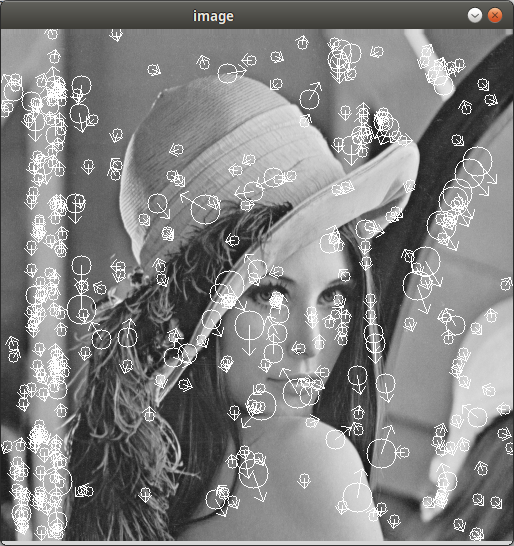
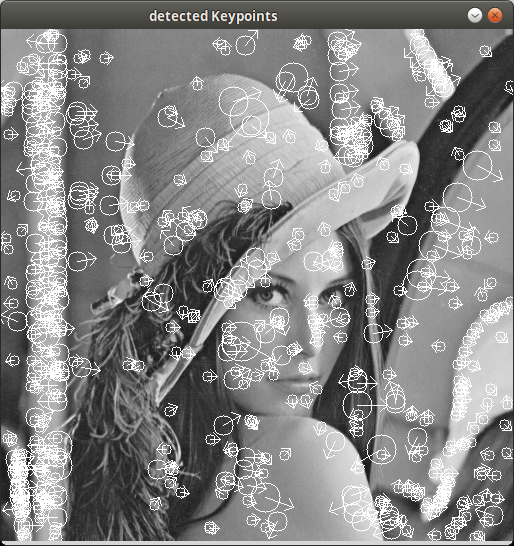
foobar

diff --git a/ub7/aufg1.py b/ub7/aufg1.py
@@ -28,7 +28,7 @@ def getGaussians(img,currentOctave , scales = 4):
         k = pow(math.sqrt(2),i + currentOctave)
         #k = (i+1) * math.sqrt(2)
         blur = img.copy()
-        cv2.GaussianBlur(src=img,dst = blur,ksize=kernelSize,sigmaX=sigma*k,sigmaY=sigma,borderType = cv2.BORDER_DEFAULT )
+        cv2.GaussianBlur(src=img,dst = blur,ksize=kernelSize,sigmaX=sigma*k,sigmaY=sigma*k,borderType = cv2.BORDER_DEFAULT )
         result.append(blur)
     return result
 
@@ -130,7 +130,7 @@ def drawArrow(img,coords,angle,lenght):
     draw_arrow(img,coords,newCoords,255)
     #cv2.line(img, coords , newCoords, 255)
 
-def drawKeypoints(IMG, keypoints,radius = 1):
+def drawKeypoints(IMG, keypoints,drawArrows = False):
     img = IMG.copy()
     octaves = len(keypoints)
     for i in range(octaves):
@@ -139,7 +139,8 @@ def drawKeypoints(IMG, keypoints,radius = 1):
             center = (x*(2**i) ,y*(2**i))
             #print center
             cv2.circle(img,center , int( 1.6* pow(math.sqrt(2),i )  ) * 5 , 255)
-            drawArrow(img,center,val , (i+1)*10)
+            if (drawArrows):
+                drawArrow(img,center,val , (i+1)*10)
     return img
 
 def deriveImg(img):
@@ -196,8 +197,8 @@ def magnitudeOrientation(L,x,y):
     #t = math.atan( (L[y+1][x] - L[y-1][x]) / (L[y][x+1] - L[y][x-1])  )
     #print t, (L[y+1][x] - L[y-1][x]) / (L[y][x+1] - L[y][x-1]) , t*180/math.pi
 
-    t = math.atan2( Lx[y][x] , Ly[y][x] )
-
+    #t = math.atan2( Lx[y][x] , Ly[y][x] )
+    t = math.atan2(L[y+1][x] - L[y-1][x] , L[y][x+1] - L[y][x-1])
     return (m,t)
 
 def getOridntation(L,s,_x,_y):
@@ -253,12 +254,17 @@ img = np.float64(img) #convert to float
 (gaussians,dogs) = getDOGLaplacePyramid(img)
 keypoints = getKeyPoints(dogs)
 
+imShow(dogs[0][0], "first DOG")
+imShow(dogs[3][2], "last DOG")
+
+imShow(drawKeypoints(o1,keypoints,False), "all Keypoints")
 print len(keypoints[0]) + len(keypoints[1]) + len(keypoints[2]) + len(keypoints[3])
-keypoints = reject(keypoints,dogs)
+keypoints = reject(keypoints,dogs,r=10)
+imShow(drawKeypoints(o1,keypoints,False), "rejected Keypoints")
 print len(keypoints[0]) + len(keypoints[1]) + len(keypoints[2]) + len(keypoints[3])
 orientedKeypoints = getOrientations(keypoints,gaussians)
 #o1 = drawKeypoints(o1,orientedKeypoints)
-o1 = drawKeypoints(o1,orientedKeypoints)
-imShow(o1)
+o1 = drawKeypoints(o1,orientedKeypoints, True)
+imShow(o1, "detected Keypoints")
 
 #cv2.imwrite("foo.png" , dogs[0][0].astype(np.uint8))

diff --git a/ub7/notiz.md b/ub7/notiz.md
@@ -1,0 +1,22 @@
+$
+\begin{matrix}
+D &= DOG \\
+k &= [1, -1] \\
+D_x &= D*k \\
+D_y &= D*k^T \\
+D_{xx} &= (D*k)*k \\
+D_{yy} &= (D*k^T)*k^T \\
+D_{xy} &= (D*k)*k^T
+\end{matrix}
+$
+
+
+
+# 1
+* 1
+* 2
+```cpp
+void a;
+for(int i = 0;)
+```
+# 2
